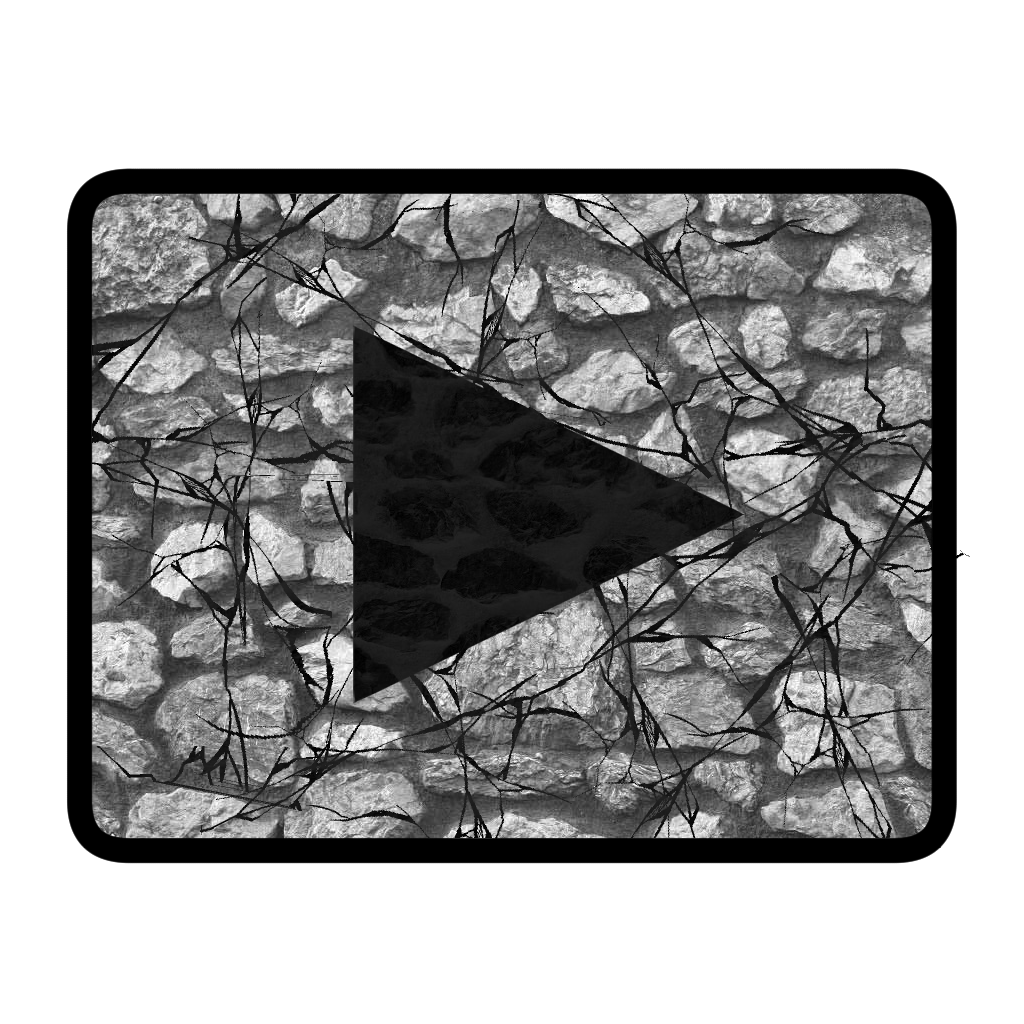
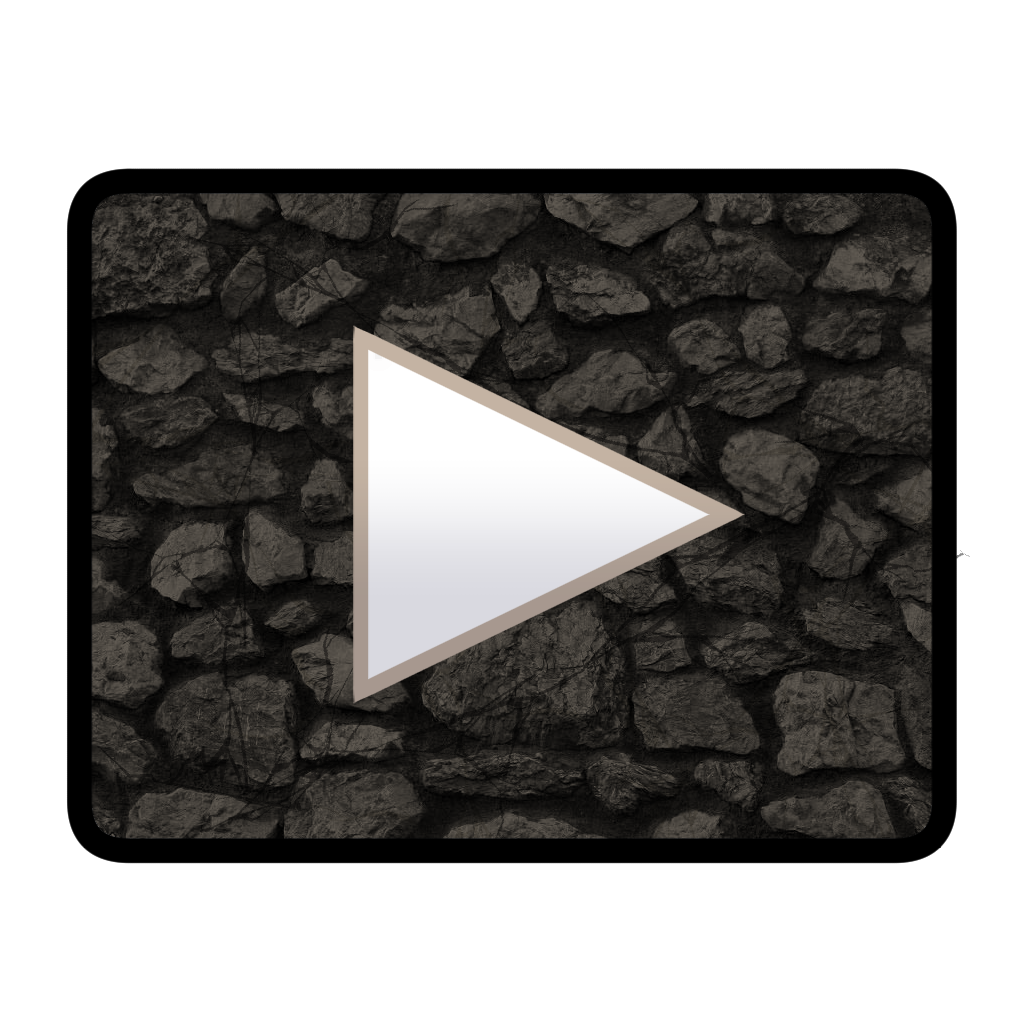
Fix Null Error and others
Fix Reference Null Error appearance
Change Play button graphic

diff --git a/Curse_of_Babel/Assets/Scripts/Personaje.cs b/Curse_of_Babel/Assets/Scripts/Personaje.cs
@@ -187,8 +187,10 @@ public class Personaje : MonoBehaviour
 
         if (!isGrounded && direction == 0)
         {
+            if (rb){
+                rb.AddForceAtPosition(new Vector3(0f, fallMultiplier * -1, 0f), Vector3.down);
+            }
             //rb.velocity += Vector3.up * Physics.gravity.y * (fallMultiplier - 1) * Time.deltaTime;
-            rb.AddForceAtPosition(new Vector3(0f, fallMultiplier * -1, 0f), Vector3.down);
         }
 
 
@@ -314,9 +316,12 @@ public class Personaje : MonoBehaviour
     void loadscenes(int scene)
     {
         Instantiate(levels[scene]);
-        mainCamera.stop_signal = GameObject.FindGameObjectWithTag("alto").transform;
-        mainCamera.push_signal = GameObject.FindGameObjectWithTag("push_signal").transform;
-        mainCamera.alive = true;
+        if (mainCamera)
+        {   
+            mainCamera.stop_signal = GameObject.FindGameObjectWithTag("alto").transform;
+            mainCamera.push_signal = GameObject.FindGameObjectWithTag("push_signal").transform;
+            mainCamera.alive = true;
+        }
     }
     public void score_up(int _score) {
         saved_variables.progreso.score += _score;
